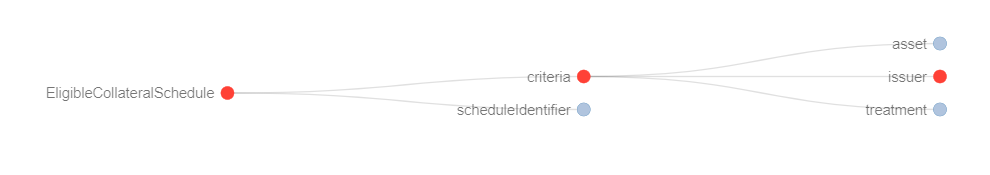
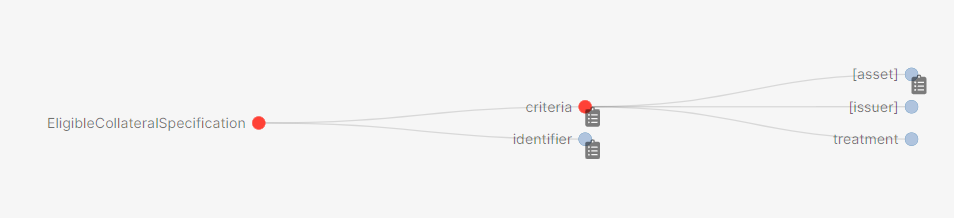
Adjusted 'specification' instead of 'schedule' (#2221)
* Adjusted 'specification' instead of 'schedule'

* Add files via upload

* Delete cdm-graphical-ecs.PNG

* Add files via upload

* Update eligible-collateral-representation.rst

diff --git a/documentation/source/eligible-collateral-representation.rst b/documentation/source/eligible-collateral-representation.rst
@@ -113,7 +113,7 @@ be extended further to operate to wider processes.
 
 The common data requirements have been established through industry
 working groups reviewing a wide range of examples in order to identify
-collateral for the purpose of constructing eligible collateral schedules
+collateral for the purpose of constructing eligible collateral specifications,
 including representation of additional attributes for regulatory risk
 and credit factors. For the purpose of understanding the principle,
 these can be divided into the following categories:
@@ -207,9 +207,9 @@ additionally apply to filter whether a piece of collateral is eligible
 or not.
 
 The combination of these terms allows a wide variety of eligible
-collateral types to be represented and structure can be used to identify
+collateral types to be represented and a structure can be used to identify
 individual collateral types or a group of collateral assets for
-inclusion in an eligible collateral schedule.
+inclusion in specifying eligible collateral schedule details.
 
 
 Identifying Eligible Collateral using the CDM Data Structure
@@ -736,7 +736,7 @@ Collateral Taxonomy (Used within Asset Criteria)
 ^^^^^^^^^^^^^^^^^^^^^^^^^^^^^^^^^^^^^^^^^^^^^^^^
 
 It is understood that data used to determine asset types used in
-eligible collateral schedules can often refer to common structured
+specifying eligible collateral information can often refer to common structured
 standard pre-defined taxonomy sources. Although the purpose of the CDM
 is to encourage one standard representation of data for asset types,
 there are circumstances where assets are organised and labelled into
@@ -821,7 +821,7 @@ list:
 
 The cardinality for these enumeration lists (0..*) denotes that multiple
 values can be provided so several categories can be applied to a line of
-data expressed in an eligibility schedules/ profile.
+data expressed in an eligibility profile.
 
 The final attribute in ``CollateralTaxonomyValue``,
 ``nonEnumeratedTaxonomyValue``, offers additional data
